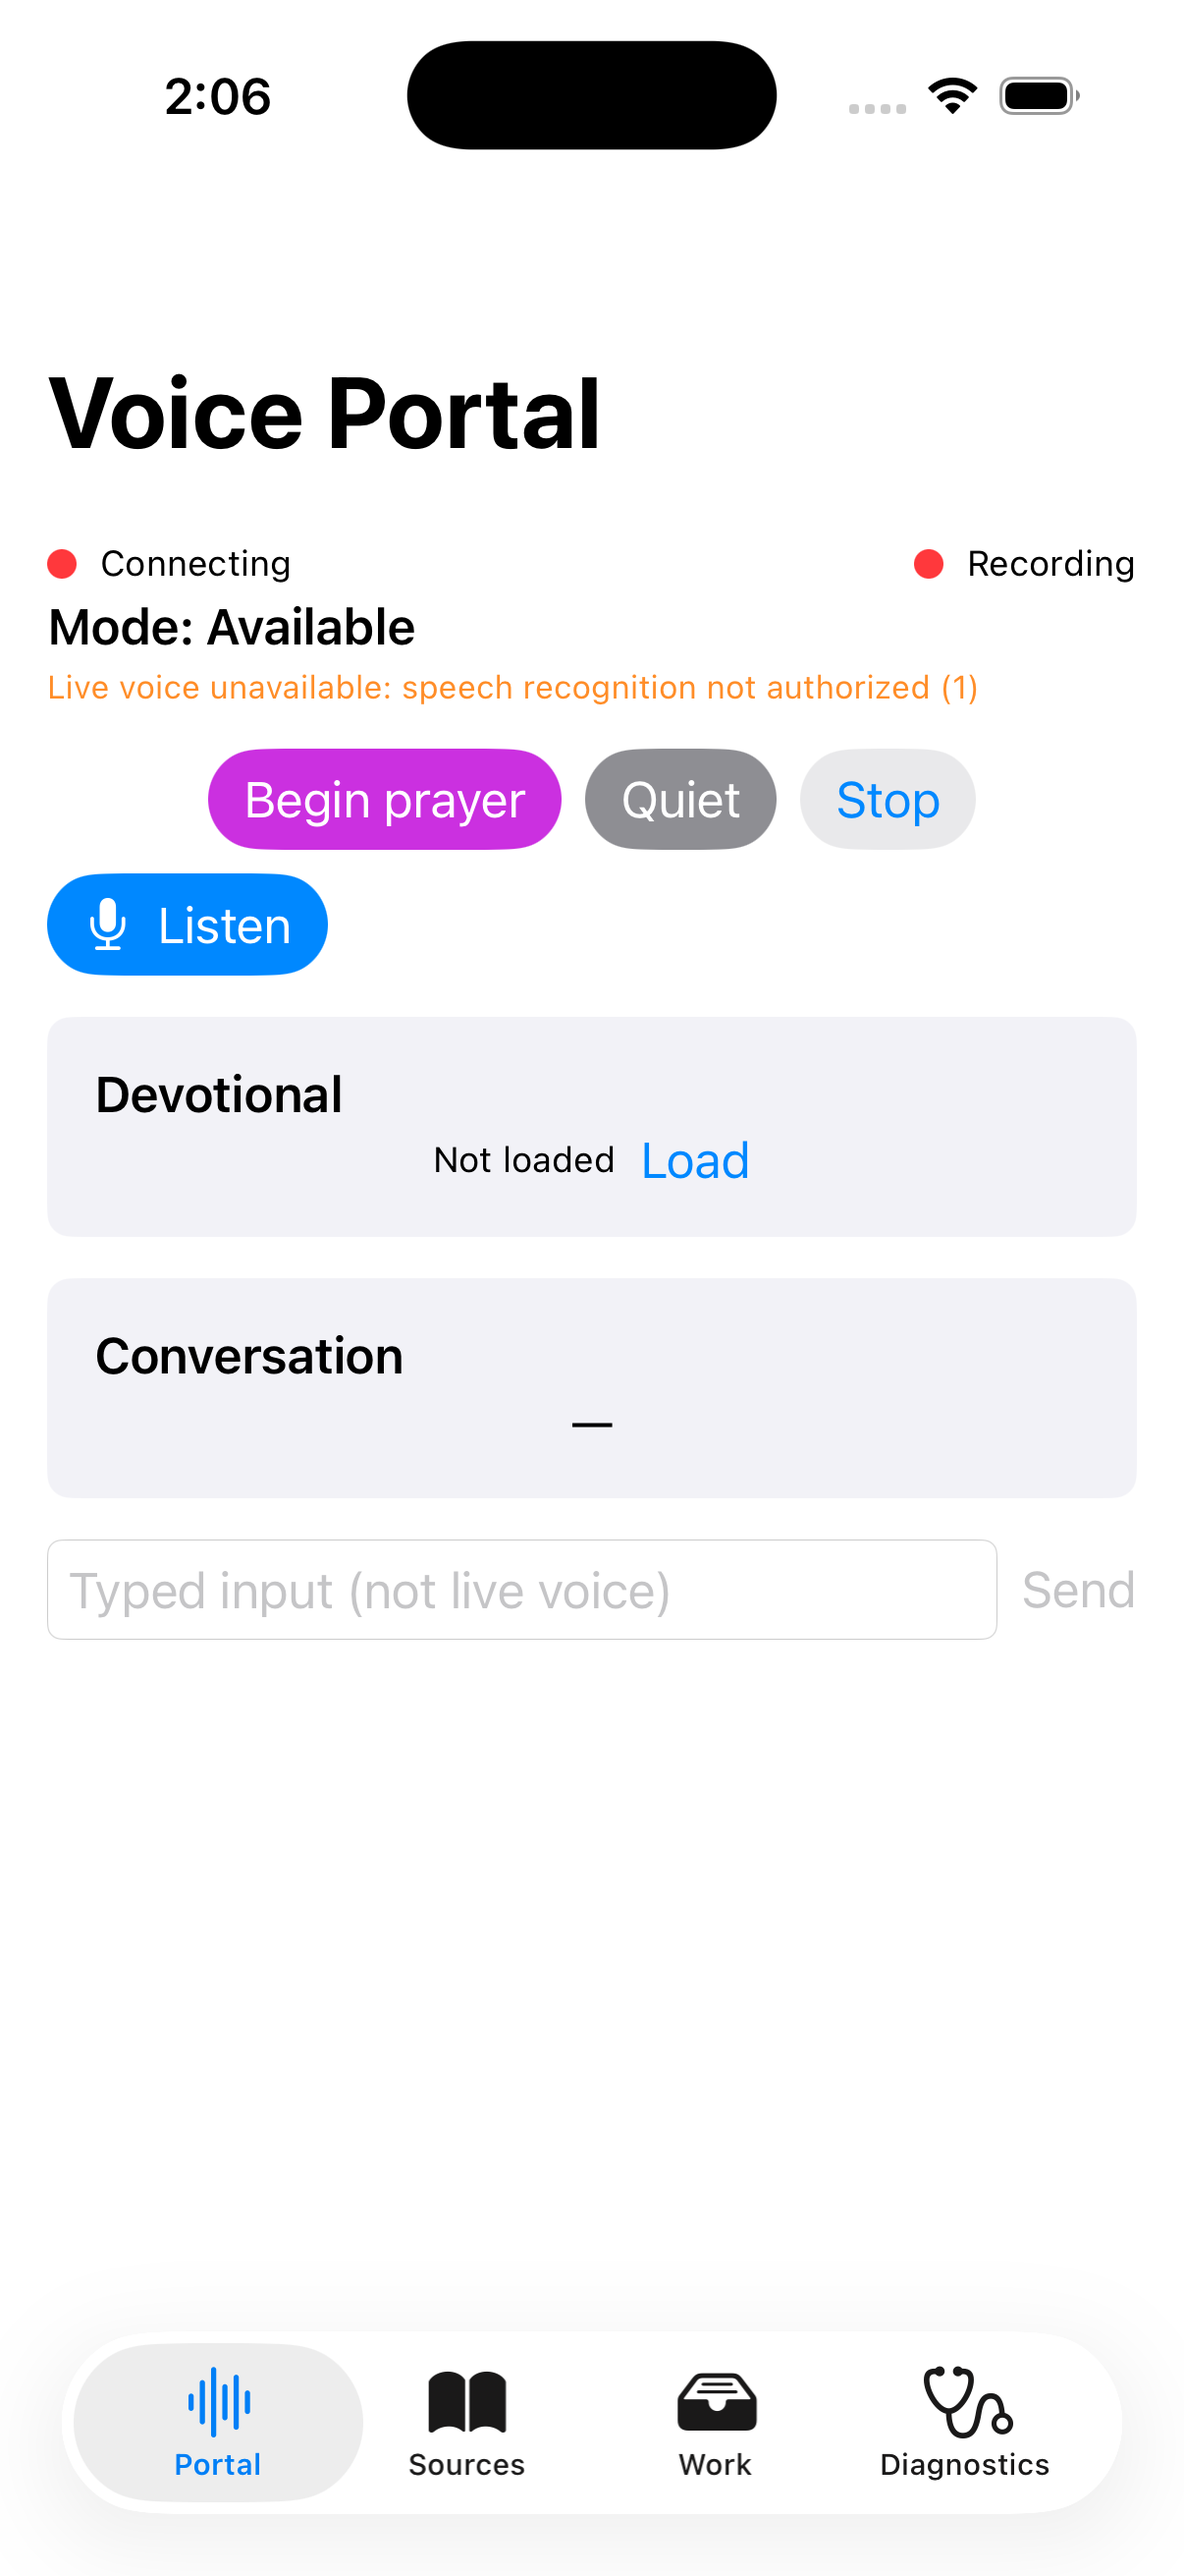
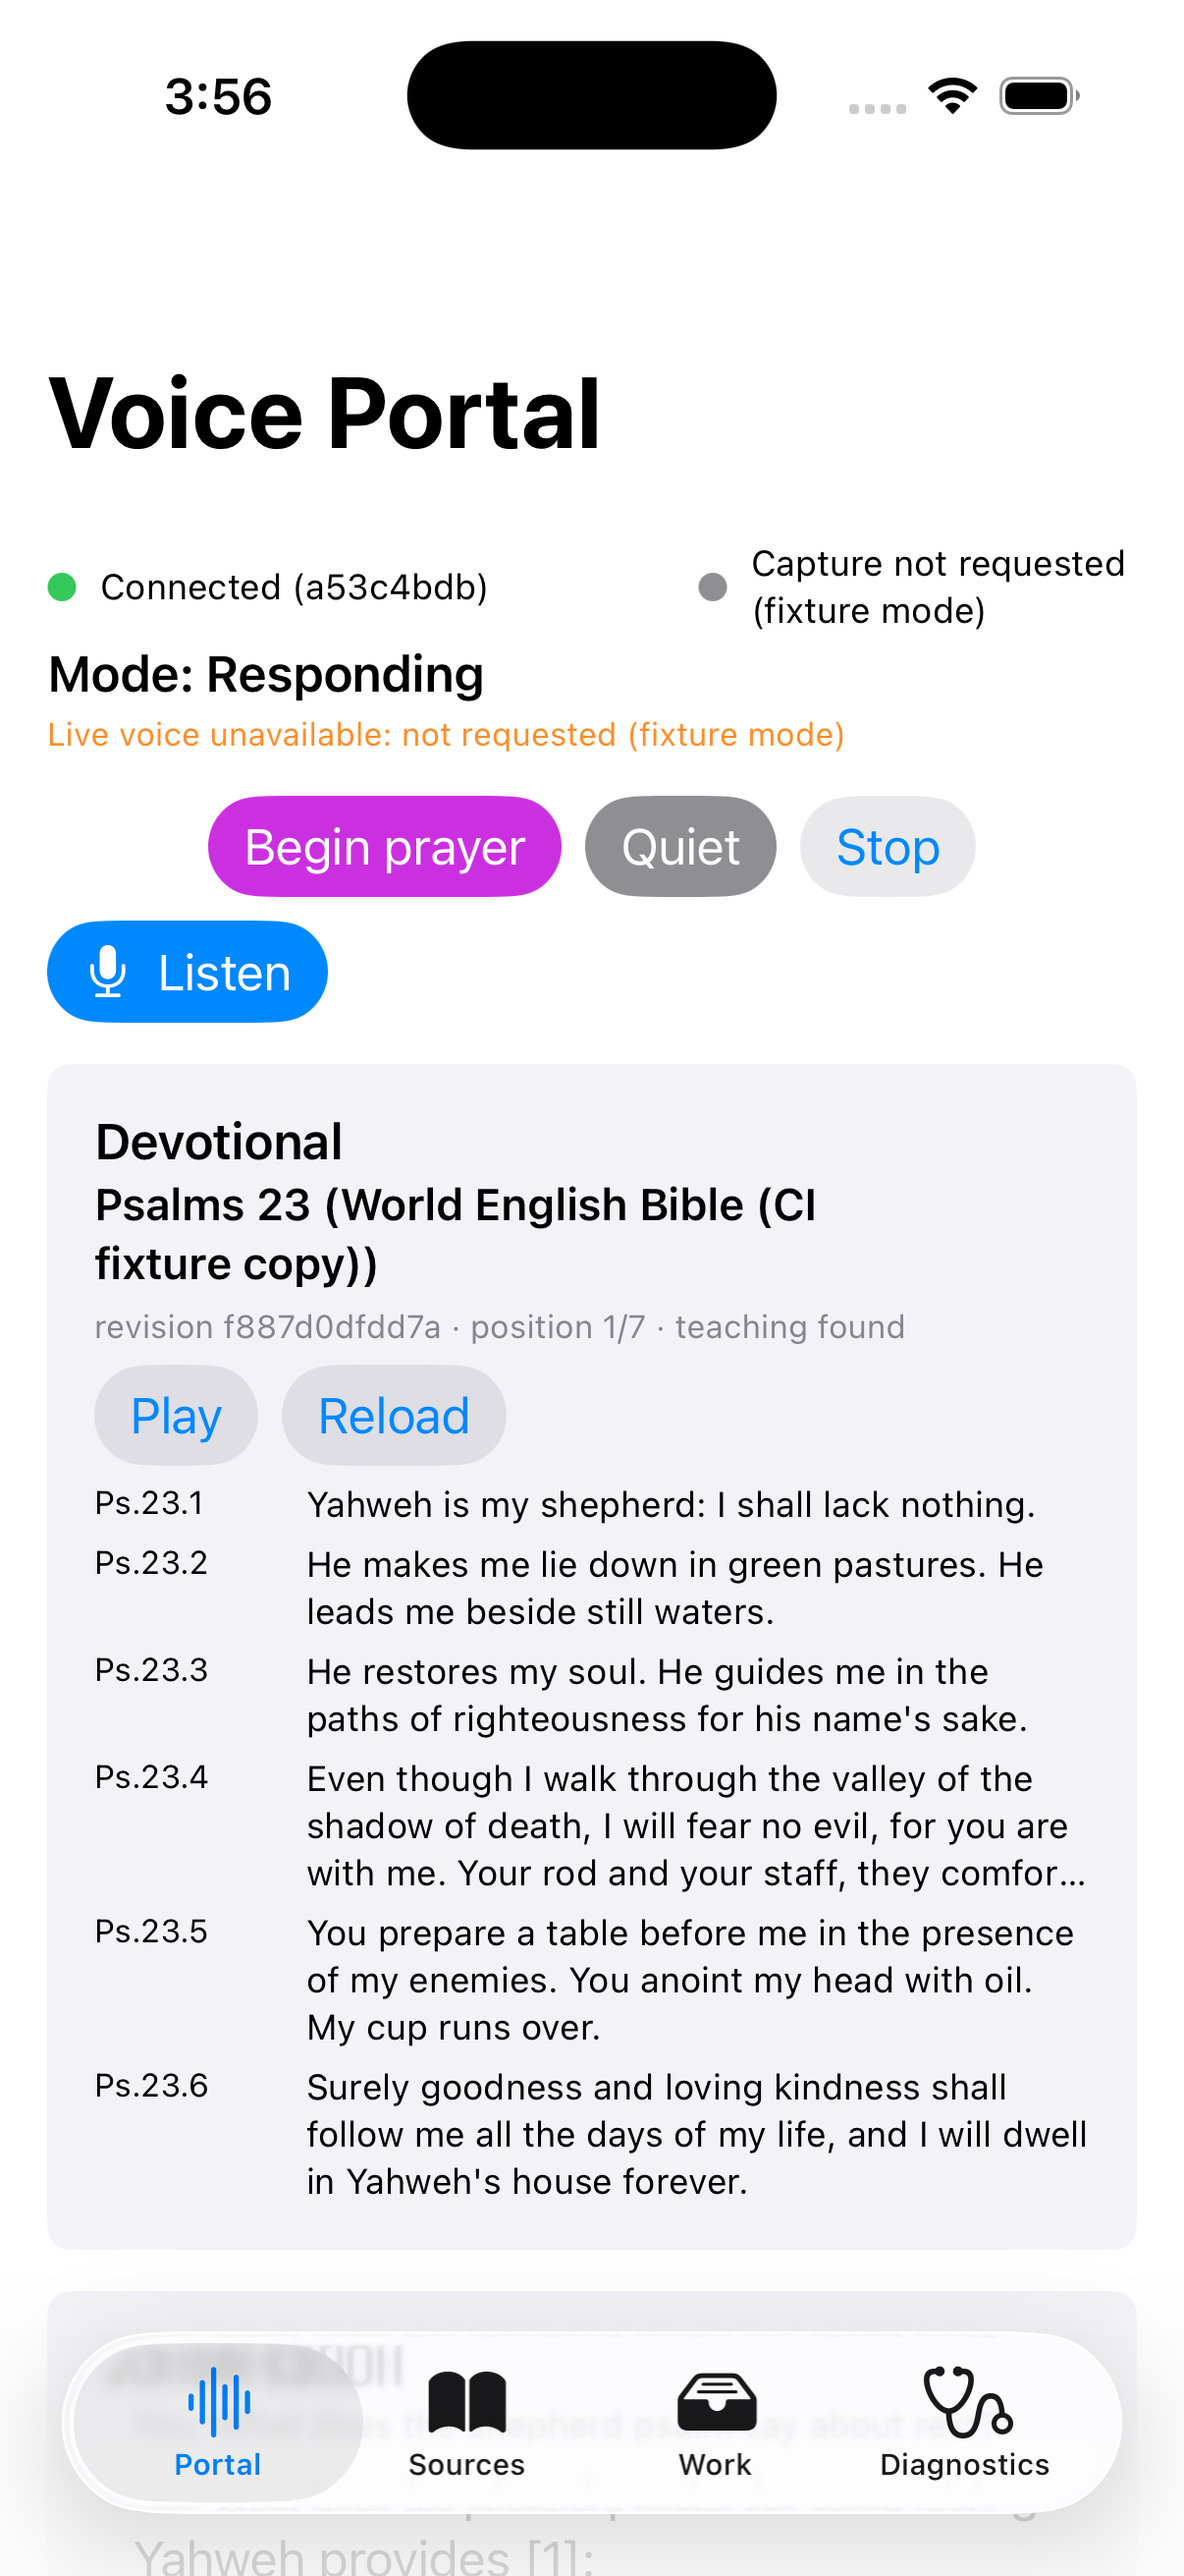
Acceptance: unobstructed fixture-mode CI screenshots (run 38342930565)

diff --git a/docs/voice-portal/prototype-acceptance.md b/docs/voice-portal/prototype-acceptance.md
@@ -20,7 +20,7 @@ in Git). Simulator screenshots are in [`evidence/`](evidence/). Every item below
 | Work outbox against the real inactive allocator | built/exercised | operation `c4eef2b3…`: dispatch → `backend_unavailable` with the exact refusal (`no live run; start it first`); `inbox list --all` returned retained rows from run `rlm-20260930T224441-1953105` without our id → status unchanged; source packet artifact served with `X-Artifact-Kind: source_packet`; identical state after service restart (pid 2306072) |
 | Outbox concurrency (OUTBOX-1/2) | built/exercised | regressions: two concurrent dispatches → one post, one attempt row, one directive file; forced interleaving: loser cannot touch the winner's per-attempt payload; crash-stale `posting` → `delivery_unknown`, never replayed; directive write failure → `local_write_failed`, retryable |
 | Native XCTest (37) | built/exercised | cloud Mac, Xcode 26.6 / macOS 26.6.2 and push CI: reducer (quiet survives reconnect/relaunch, prayer silence, explicit finish, existing quiet, barge-in, ordinary completion), phrase queue, capture manifest (settlement, contiguous indexes, orphan reconciliation, next index), devotional progress, local work reconciliation, event decoding, recognition startup wiring in both callback orders (VOICE-START-1), SegmentWriter closed guard; `** TEST SUCCEEDED **` |
-| Simulator build + launch + screenshots | built/exercised | unsigned build `** BUILD SUCCEEDED **`; app connected to the fixture backend (typed CI demo turn streamed with three citation chips) and to the real desktop backend through a reverse tunnel: John 15 (WEB) devotional with revision `5715112e39c8`, teaching found, qwen-coding-b turn first delta 785 ms; Diagnostics shows the real inference/intake/allocator state |
+| Simulator build + launch + screenshots | built/exercised | unsigned build `** BUILD SUCCEEDED **`; app connected to the fixture backend (typed CI demo turn streamed with three citation chips) and to the real desktop backend through a reverse tunnel: John 15 (WEB) devotional with revision `5715112e39c8`, teaching found, qwen-coding-b turn first delta 785 ms; Diagnostics shows the real inference/intake/allocator state. Push CI run 38342930565 (commit `6a4ed2c`): 37 XCTests, 48 backend tests, and the four fixture-mode screenshots are free of permission dialogs and label capture/recognition as "not requested (fixture mode)" ([`evidence/simulator-fixture-portal-after-turn.png`](evidence/simulator-fixture-portal-after-turn.png), [`evidence/simulator-fixture-diagnostics.png`](evidence/simulator-fixture-diagnostics.png)). Earlier runs (05e4e65, b7a393f) were covered by the microphone alert left by the XCTest host, which launches the same bundle; fixed by not starting the portal under XCTest and erasing the simulator before the screenshot step |
 | Live voice on a device | built/unverified | build 4 is installable on `iphone-12` through the TestFlight app (internal group); installing it and exercising microphone, on-device recognition, Bluetooth, lock-screen and interruption behaviour is the next step and has not been done. The simulator reports `speech recognition not authorized (1)` and, in fixture mode, does not request it |
 | Membership, Team ID, signing assets | built/exercised | Individual membership active, Team `4PJBKY2WQR` (renewal 2027-10-12), verified in the existing authenticated browser session with no credential entry; API key `Z9XH3R3RV2`, bundle ID `87XJJ9FG5S`, Apple Distribution certificate `AUBJ7C9S7Y`, profile `rlm-adk-ios appstore` (`6SW4NCM292`), app record `6822129536`; all retained privately and as GitHub secrets (see runbook) |
 | Signed archive | built/exercised | manual Apple Distribution signing on the cloud Mac; `codesign --verify --deep --strict` passes; chain Apple Distribution: Rawley Stanhope (4PJBKY2WQR) → WWDR → Apple Root; IPA Info.plist `0.2.0` / build `3` after the XcodeGen version fix (first archive carried the literal `1.0`/`1`) |
